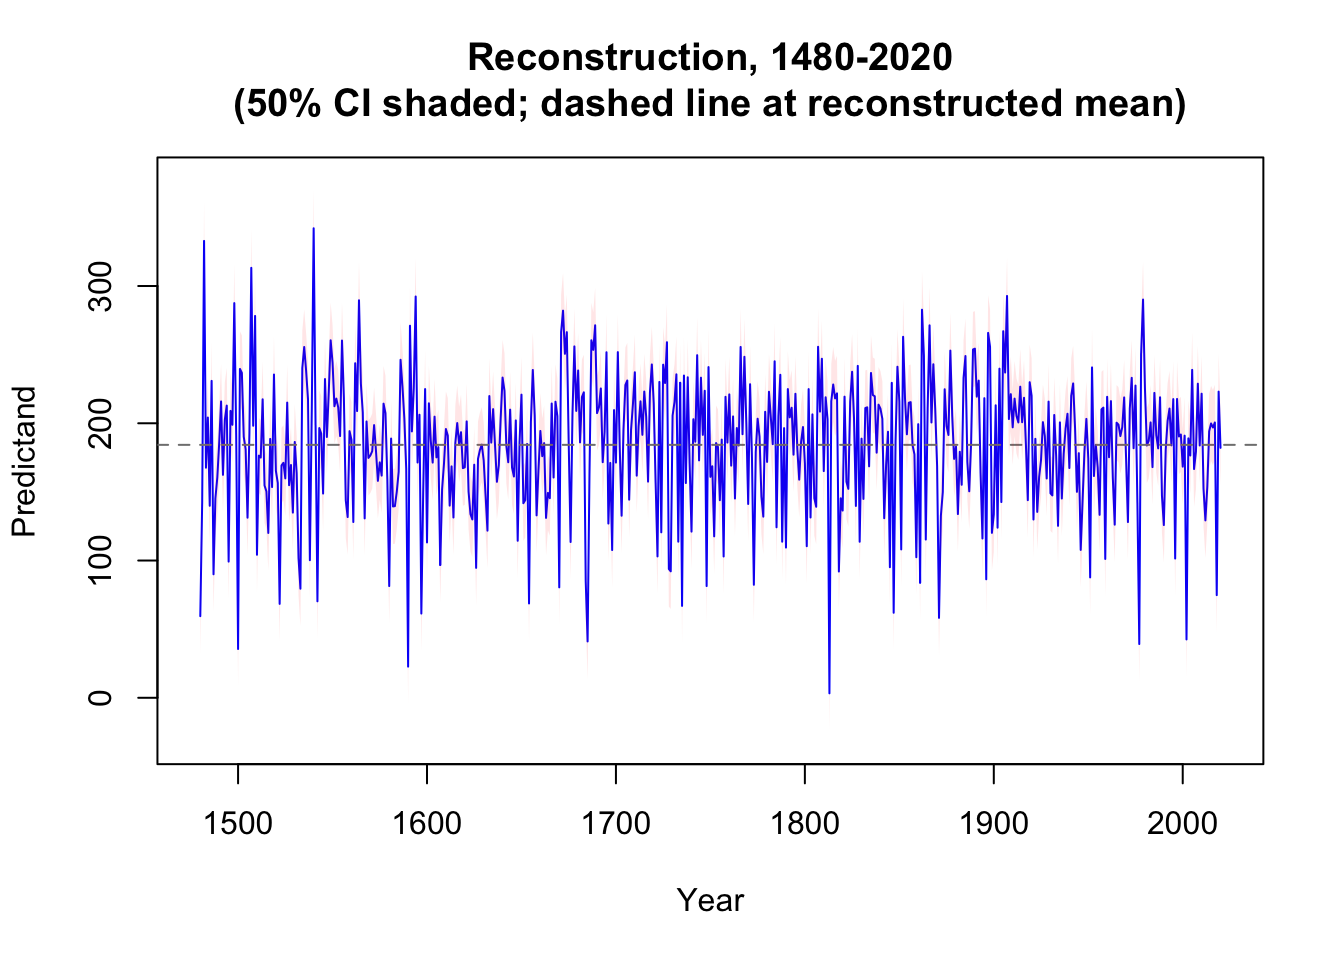
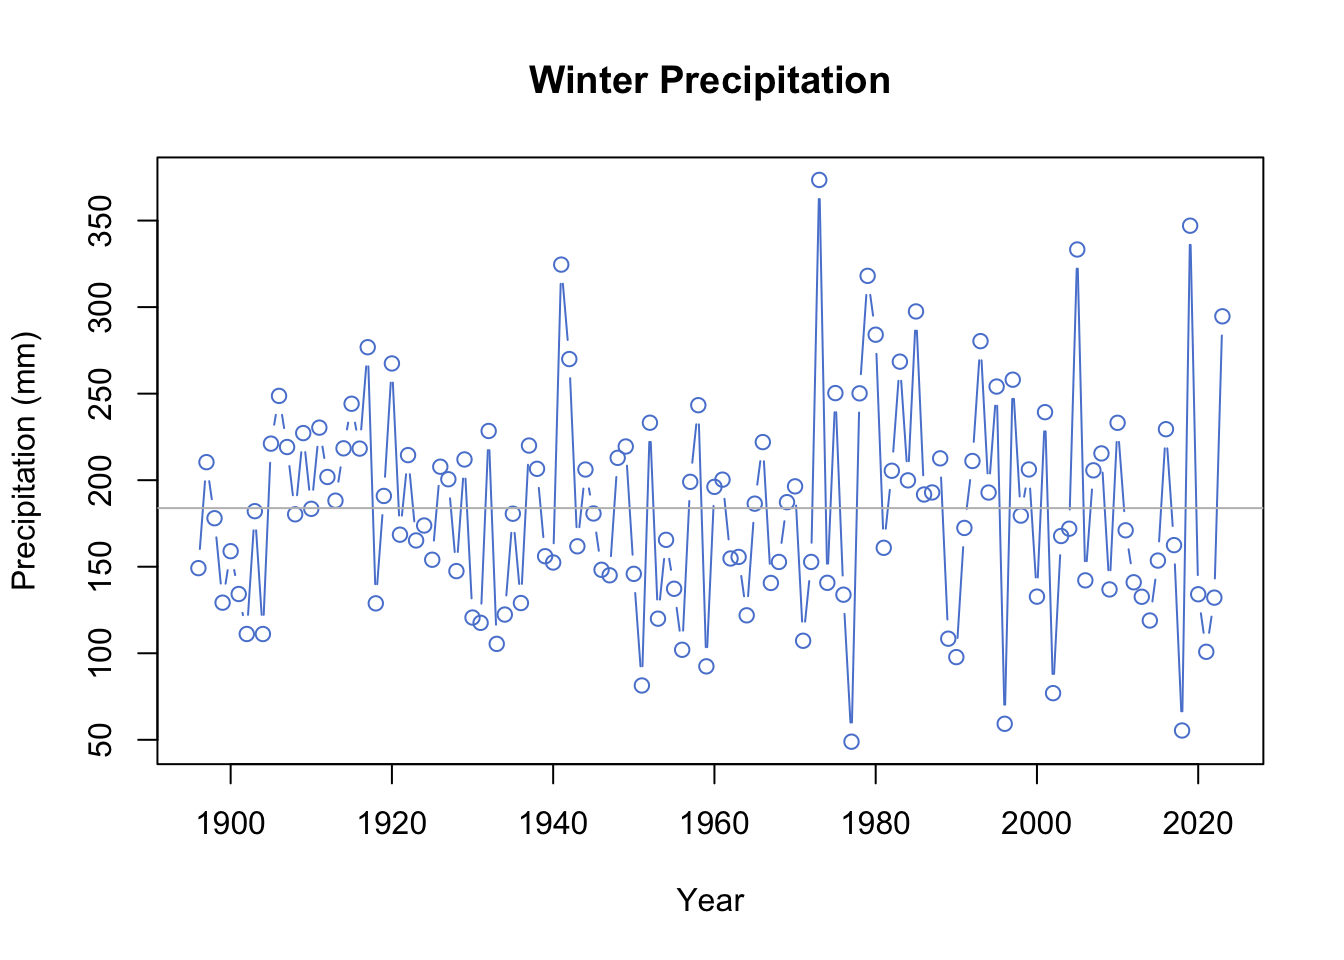
new figs

diff --git a/ReconStep.html b/ReconStep.html
@@ -44,8 +44,26 @@ ul.task-list li input[type="checkbox"] {
 <body class="quarto-light">
 
 <div id="quarto-content" class="page-columns page-rows-contents page-layout-full">
-
-<main class="content column-page" id="quarto-document-content">
+<div id="quarto-margin-sidebar" class="sidebar margin-sidebar">
+  <nav id="TOC" role="doc-toc" class="toc-active">
+    <h2 id="toc-title">Contents</h2>
+   
+  <ul>
+  <li><a href="#part-1.-read-input-optionally-transform-y-and-build-a-lagged-matrix-of-chronologies" id="toc-part-1.-read-input-optionally-transform-y-and-build-a-lagged-matrix-of-chronologies" class="nav-link active" data-scroll-target="#part-1.-read-input-optionally-transform-y-and-build-a-lagged-matrix-of-chronologies">PART 1. Read input, optionally transform <em>y</em>, and build a lagged matrix of chronologies</a></li>
+  <li><a href="#part-2.-correlation-screening-of-lagged-chronology-matrix" id="toc-part-2.-correlation-screening-of-lagged-chronology-matrix" class="nav-link" data-scroll-target="#part-2.-correlation-screening-of-lagged-chronology-matrix">PART 2. Correlation screening of lagged chronology matrix</a></li>
+  <li><a href="#part-3.-optionally-extend-calibration-period" id="toc-part-3.-optionally-extend-calibration-period" class="nav-link" data-scroll-target="#part-3.-optionally-extend-calibration-period">PART 3. Optionally extend calibration period</a></li>
+  <li><a href="#part-4.-pca-transformation-of-chronologies" id="toc-part-4.-pca-transformation-of-chronologies" class="nav-link" data-scroll-target="#part-4.-pca-transformation-of-chronologies">PART 4. PCA transformation of chronologies</a></li>
+  <li><a href="#part-5.-regression-modeling" id="toc-part-5.-regression-modeling" class="nav-link" data-scroll-target="#part-5.-regression-modeling">PART 5. Regression modeling</a></li>
+  <li><a href="#part-6.-reconstruction" id="toc-part-6.-reconstruction" class="nav-link" data-scroll-target="#part-6.-reconstruction">PART 6. Reconstruction</a></li>
+  <li><a href="#part-7.-independent-verification" id="toc-part-7.-independent-verification" class="nav-link" data-scroll-target="#part-7.-independent-verification">PART 7. Independent verification</a></li>
+  <li><a href="#part-8.-analysis-of-residuals" id="toc-part-8.-analysis-of-residuals" class="nav-link" data-scroll-target="#part-8.-analysis-of-residuals">PART 8. Analysis of residuals</a></li>
+  <li><a href="#part-9.-split-sample-analysis-to-check-stability-of-reconstruction-model" id="toc-part-9.-split-sample-analysis-to-check-stability-of-reconstruction-model" class="nav-link" data-scroll-target="#part-9.-split-sample-analysis-to-check-stability-of-reconstruction-model">PART 9. Split-sample analysis to check stability of reconstruction model</a></li>
+  <li><a href="#part-10.-confidence-interval-for-reconstruction" id="toc-part-10.-confidence-interval-for-reconstruction" class="nav-link" data-scroll-target="#part-10.-confidence-interval-for-reconstruction">PART 10. Confidence interval for reconstruction</a></li>
+  <li><a href="#part-11.-new-plots" id="toc-part-11.-new-plots" class="nav-link" data-scroll-target="#part-11.-new-plots">PART 11. New plots</a></li>
+  </ul>
+</nav>
+</div>
+<main class="content column-page-left" id="quarto-document-content">
 
 <header id="title-block-header" class="quarto-title-block default">
 <div class="quarto-title">
@@ -55,7 +73,7 @@ ul.task-list li input[type="checkbox"] {
 
 
 
-<div class="quarto-title-meta column-page">
+<div class="quarto-title-meta column-page-left">
 
     
   
@@ -71,8 +89,8 @@ ul.task-list li input[type="checkbox"] {
 <section id="section" class="level80">
 <p class="heading"></p>
 </section>
-<section id="part-1.-read-input-optionally-transform-y-and-build-a-lagged-matrix-of-chronologies" class="level4">
-<h4 class="anchored" data-anchor-id="part-1.-read-input-optionally-transform-y-and-build-a-lagged-matrix-of-chronologies">PART 1. Read input, optionally transform <em>y</em>, and build a lagged matrix of chronologies</h4>
+<section id="part-1.-read-input-optionally-transform-y-and-build-a-lagged-matrix-of-chronologies" class="level2">
+<h2 class="anchored" data-anchor-id="part-1.-read-input-optionally-transform-y-and-build-a-lagged-matrix-of-chronologies">PART 1. Read input, optionally transform <em>y</em>, and build a lagged matrix of chronologies</h2>
 <section id="section-1" class="level80">
 <p class="heading"></p>
 <div class="cell">
@@ -89,8 +107,8 @@ ul.task-list li input[type="checkbox"] {
 <p class="heading"></p>
 </section>
 </section>
-<section id="part-2.-correlation-screening-of-lagged-chronology-matrix" class="level4">
-<h4 class="anchored" data-anchor-id="part-2.-correlation-screening-of-lagged-chronology-matrix">PART 2. Correlation screening of lagged chronology matrix</h4>
+<section id="part-2.-correlation-screening-of-lagged-chronology-matrix" class="level2">
+<h2 class="anchored" data-anchor-id="part-2.-correlation-screening-of-lagged-chronology-matrix">PART 2. Correlation screening of lagged chronology matrix</h2>
 <section id="section-3" class="level65">
 <p class="heading"></p>
 <div class="cell">
@@ -116,8 +134,8 @@ ul.task-list li input[type="checkbox"] {
 <p class="heading"></p>
 </section>
 </section>
-<section id="part-3.-optionally-extend-calibration-period" class="level4">
-<h4 class="anchored" data-anchor-id="part-3.-optionally-extend-calibration-period">PART 3. Optionally extend calibration period</h4>
+<section id="part-3.-optionally-extend-calibration-period" class="level2">
+<h2 class="anchored" data-anchor-id="part-3.-optionally-extend-calibration-period">PART 3. Optionally extend calibration period</h2>
 <section id="section-5" class="level65">
 <p class="heading"></p>
 <section id="section-6" class="level80">
@@ -125,8 +143,8 @@ ul.task-list li input[type="checkbox"] {
 </section>
 </section>
 </section>
-<section id="part-4.-pca-transformation-of-chronologies" class="level4">
-<h4 class="anchored" data-anchor-id="part-4.-pca-transformation-of-chronologies">PART 4. PCA transformation of chronologies</h4>
+<section id="part-4.-pca-transformation-of-chronologies" class="level2">
+<h2 class="anchored" data-anchor-id="part-4.-pca-transformation-of-chronologies">PART 4. PCA transformation of chronologies</h2>
 <section id="section-7" class="level79">
 <p class="heading"></p>
 <div class="cell">
@@ -150,8 +168,8 @@ ul.task-list li input[type="checkbox"] {
 </section>
 </section>
 </section>
-<section id="part-5.-regression-modeling" class="level4">
-<h4 class="anchored" data-anchor-id="part-5.-regression-modeling">PART 5. Regression modeling</h4>
+<section id="part-5.-regression-modeling" class="level2">
+<h2 class="anchored" data-anchor-id="part-5.-regression-modeling">PART 5. Regression modeling</h2>
 <section id="section-9" class="level80">
 <p class="heading"></p>
 <div class="cell">
@@ -200,8 +218,8 @@ F-statistic: 48.62 on 3 and 121 DF,  p-value: &lt; 2.2e-16</code></pre>
 <p class="heading"></p>
 </section>
 </section>
-<section id="part-6.-reconstruction" class="level4">
-<h4 class="anchored" data-anchor-id="part-6.-reconstruction">PART 6. Reconstruction</h4>
+<section id="part-6.-reconstruction" class="level2">
+<h2 class="anchored" data-anchor-id="part-6.-reconstruction">PART 6. Reconstruction</h2>
 <section id="section-11" class="level80">
 <p class="heading"></p>
 <div class="cell">
@@ -339,14 +357,14 @@ F-statistic: 48.62 on 3 and 121 DF,  p-value: &lt; 2.2e-16</code></pre>
 <p class="heading"></p>
 </section>
 </section>
-<section id="part-7.-independent-verification" class="level4">
-<h4 class="anchored" data-anchor-id="part-7.-independent-verification">PART 7. Independent verification</h4>
+<section id="part-7.-independent-verification" class="level2">
+<h2 class="anchored" data-anchor-id="part-7.-independent-verification">PART 7. Independent verification</h2>
 <section id="section-13" class="level80">
 <p class="heading"></p>
 </section>
 </section>
-<section id="part-8.-analysis-of-residuals" class="level4">
-<h4 class="anchored" data-anchor-id="part-8.-analysis-of-residuals">PART 8. Analysis of residuals</h4>
+<section id="part-8.-analysis-of-residuals" class="level2">
+<h2 class="anchored" data-anchor-id="part-8.-analysis-of-residuals">PART 8. Analysis of residuals</h2>
 <section id="section-14" class="level80">
 <p class="heading"></p>
 <div class="cell">
@@ -384,8 +402,8 @@ F-statistic: 48.62 on 3 and 121 DF,  p-value: &lt; 2.2e-16</code></pre>
 <p class="heading"></p>
 </section>
 </section>
-<section id="part-9.-split-sample-analysis-to-check-stability-of-reconstruction-model" class="level4">
-<h4 class="anchored" data-anchor-id="part-9.-split-sample-analysis-to-check-stability-of-reconstruction-model">PART 9. Split-sample analysis to check stability of reconstruction model</h4>
+<section id="part-9.-split-sample-analysis-to-check-stability-of-reconstruction-model" class="level2">
+<h2 class="anchored" data-anchor-id="part-9.-split-sample-analysis-to-check-stability-of-reconstruction-model">PART 9. Split-sample analysis to check stability of reconstruction model</h2>
 <section id="section-16" class="level80">
 <p class="heading"></p>
 <div class="cell">
@@ -402,8 +420,8 @@ F-statistic: 48.62 on 3 and 121 DF,  p-value: &lt; 2.2e-16</code></pre>
 <p class="heading"></p>
 </section>
 </section>
-<section id="part-10.-confidence-interval-for-reconstruction" class="level4">
-<h4 class="anchored" data-anchor-id="part-10.-confidence-interval-for-reconstruction">PART 10. Confidence interval for reconstruction</h4>
+<section id="part-10.-confidence-interval-for-reconstruction" class="level2">
+<h2 class="anchored" data-anchor-id="part-10.-confidence-interval-for-reconstruction">PART 10. Confidence interval for reconstruction</h2>
 <section id="section-18" class="level79">
 <p class="heading"></p>
 <div class="cell">
@@ -420,15 +438,57 @@ F-statistic: 48.62 on 3 and 121 DF,  p-value: &lt; 2.2e-16</code></pre>
 <p class="heading"></p>
 </section>
 </section>
-<section id="part-11.-new-plots" class="level4">
-<h4 class="anchored" data-anchor-id="part-11.-new-plots">PART 11. New plots</h4>
+<section id="part-11.-new-plots" class="level2">
+<h2 class="anchored" data-anchor-id="part-11.-new-plots">PART 11. New plots</h2>
 <section id="section-20" class="level79">
 <p class="heading"></p>
+<div class="cell">
+<div class="cell-output cell-output-stderr">
+<pre><code>Scale for y is already present.
+Adding another scale for y, which will replace the existing scale.
+Scale for y is already present.
+Adding another scale for y, which will replace the existing scale.</code></pre>
+</div>
+<div class="cell-output-display">
+<div>
+<figure class="figure">
+<p><img src="ReconStep_files/figure-html/unnamed-chunk-15-1.png" class="img-fluid figure-img" width="672"></p>
+</figure>
+</div>
+</div>
+</div>
 <div class="cell">
 <div class="cell-output-display">
 <div>
 <figure class="figure">
-<p><img src="ReconStep_files/figure-html/unnamed-chunk-14-1.png" class="img-fluid figure-img" width="672"></p>
+<p><img src="ReconStep_files/figure-html/unnamed-chunk-16-1.png" class="img-fluid figure-img" width="672"></p>
+</figure>
+</div>
+</div>
+</div>
+<div class="cell">
+<div class="cell-output-display">
+<div>
+<figure class="figure">
+<p><img src="ReconStep_files/figure-html/unnamed-chunk-17-1.png" class="img-fluid figure-img" width="672"></p>
+</figure>
+</div>
+</div>
+</div>
+<div class="cell">
+<div class="cell-output-display">
+<div>
+<figure class="figure">
+<p><img src="ReconStep_files/figure-html/unnamed-chunk-18-1.png" class="img-fluid figure-img" width="672"></p>
+</figure>
+</div>
+</div>
+</div>
+<div class="cell">
+<div class="cell-output-display">
+<div>
+<figure class="figure">
+<p><img src="ReconStep_files/figure-html/unnamed-chunk-19-1.png" class="img-fluid figure-img" width="672"></p>
 </figure>
 </div>
 </div>
@@ -437,15 +497,12 @@ F-statistic: 48.62 on 3 and 121 DF,  p-value: &lt; 2.2e-16</code></pre>
 <section id="section-21" class="level79">
 <p class="heading"></p>
 </section>
-</section>
 <section id="part-12.-save-reconstruction-and-statistics" class="level4">
 <h4 class="anchored" data-anchor-id="part-12.-save-reconstruction-and-statistics">PART 12. Save reconstruction and statistics</h4>
 <section id="section-22" class="level79">
 <p class="heading"></p>
 </section>
 </section>
-<section id="references" class="level3">
-<h3 class="anchored" data-anchor-id="references">References</h3>
 </section>
 
 </main>
